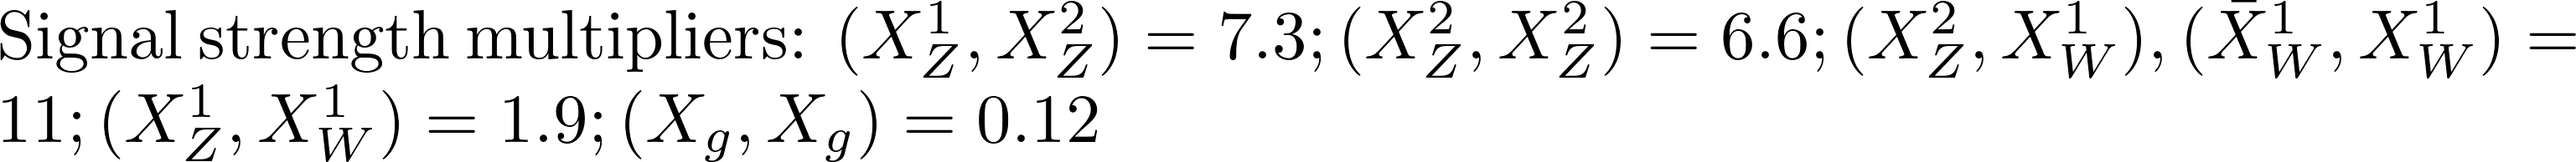
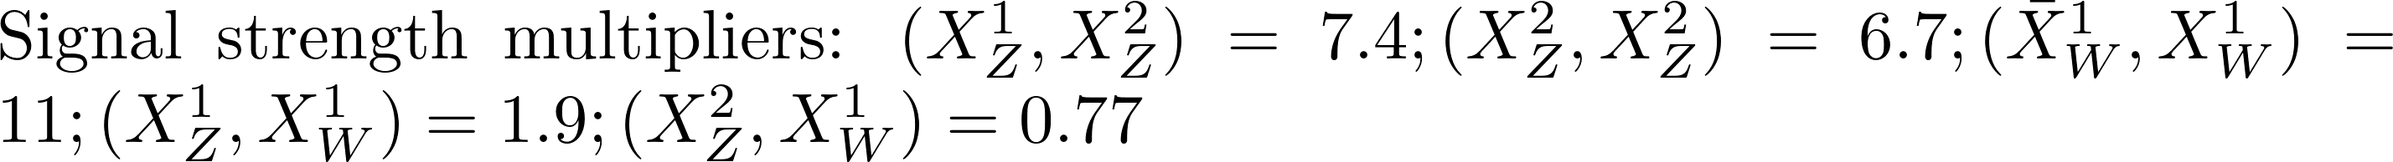
automated update by plotHiscore.py to ewk8_310:     K=9.733 TL=13.23 walkerid=0

diff --git a/protomodels/ewk8_310/rawnumbers.html b/protomodels/ewk8_310/rawnumbers.html
@@ -1,16 +1,15 @@
 <table>
 <tr><th>Analysis Name</th><th>Type</th><th>Dataset</th><th>Topos</th><th>Observed</th><th>Expected</th><th>Approx &sigma;</th><th>Particles</th>
 </tr>
-<tr><td><a href=https://atlas.web.cern.ch/Atlas/GROUPS/PHYSICS/PAPERS/SUSY-2018-42/>ATLAS-SUSY-2018-42</a></td><td>em</td> <td>SR1400_High_long</td><td>TRHadGM1</td><td>7</td><td>0.70 +/- 0.40</td><td style="text-align:right">4.0 &sigma;</td><td style="text-align:right">X<sub>g</sub></td></tr>
-<tr><td><a href=https://atlas.web.cern.ch/Atlas/GROUPS/PHYSICS/PAPERS/EXOT-2018-06/>ATLAS-EXOT-2018-06</a></td><td>em</td> <td>EM10</td><td>TChiISR</td><td>413</td><td>359.00 +/- 10.00</td><td style="text-align:right">2.5 &sigma;</td><td style="text-align:right">X<sup>1</sup><sub>Z</sub>, X<sup>2</sup><sub>Z</sub></td></tr>
+<tr><td><a href=https://atlas.web.cern.ch/Atlas/GROUPS/PHYSICS/PAPERS/EXOT-2018-06/>ATLAS-EXOT-2018-06</a></td><td>em</td> <td>EM10</td><td>TChiISR</td><td>413</td><td>359.00 +/- 10.00</td><td style="text-align:right">2.4 &sigma;</td><td style="text-align:right">X<sup>1</sup><sub>Z</sub>, X<sup>2</sup><sub>Z</sub></td></tr>
 <tr><td><a href=http://cms-results.web.cern.ch/cms-results/public-results/publications/EXO-20-004/>CMS-EXO-20-004</a></td><td>comb</td> <td>-</td><td>TChiISR</td><td> 7e+01 fb </td><td> 5e+01 fb</td><td style="text-align:right">2.2 &sigma;</td><td style="text-align:right">X<sup>1</sup><sub>Z</sub>, X<sup>2</sup><sub>Z</sub></td></tr>
 <tr><td><a href=https://atlas.web.cern.ch/Atlas/GROUPS/PHYSICS/PAPERS/SUSY-2013-04/>ATLAS-SUSY-2013-04</a></td><td>em</td> <td>GtGrid_SR_10ij5 ...</td><td>T1bbbb</td><td>3</td><td>1.37 +/- 0.35</td><td style="text-align:right">1.2 &sigma;</td><td style="text-align:right">X<sup>1</sup><sub>Z</sub>, X<sup>2</sup><sub>Z</sub></td></tr>
 <tr><td><a href=https://atlas.web.cern.ch/Atlas/GROUPS/PHYSICS/PAPERS/SUSY-2016-07/>ATLAS-SUSY-2016-07</a></td><td>em</td> <td>4j_Meff_1000</td><td>T1</td><td>142</td><td>124.00 +/- 12.00</td><td style="text-align:right">1.1 &sigma;</td><td style="text-align:right">X<sup>1</sup><sub>W</sub>, X<sup>1</sup><sub>Z</sub>, X<sup>2</sup><sub>Z</sub></td></tr>
-<tr><td><a href=https://twiki.cern.ch/twiki/bin/view/CMSPublic/PhysicsResultsSUS13012>CMS-SUS-13-012</a></td><td>em</td> <td>6NJet8_800HT100 ...</td><td>T1bbbb</td><td>35</td><td>28.60 +/- 6.90</td><td style="text-align:right">0.8 &sigma;</td><td style="text-align:right">X<sup>1</sup><sub>Z</sub>, X<sup>2</sup><sub>Z</sub></td></tr>
-<tr><td><a href=https://atlas.web.cern.ch/Atlas/GROUPS/PHYSICS/PAPERS/SUSY-2013-02/>ATLAS-SUSY-2013-02</a></td><td>em</td> <td>SR6jm</td><td>T1</td><td>39</td><td>33.00 +/- 6.00</td><td style="text-align:right">0.7 &sigma;</td><td style="text-align:right">X<sup>1</sup><sub>W</sub>, X<sup>1</sup><sub>Z</sub>, X<sup>2</sup><sub>Z</sub></td></tr>
+<tr><td><a href=https://twiki.cern.ch/twiki/bin/view/CMSPublic/PhysicsResultsSUS13012>CMS-SUS-13-012</a></td><td>em</td> <td>6NJet8_800HT100 ...</td><td>T1bbbb</td><td>35</td><td>28.60 +/- 6.90</td><td style="text-align:right">0.7 &sigma;</td><td style="text-align:right">X<sup>1</sup><sub>Z</sub>, X<sup>2</sup><sub>Z</sub></td></tr>
+<tr><td><a href=https://atlas.web.cern.ch/Atlas/GROUPS/PHYSICS/PAPERS/SUSY-2013-02/>ATLAS-SUSY-2013-02</a></td><td>em</td> <td>SR6jl</td><td>T1</td><td>121</td><td>111.00 +/- 11.00</td><td style="text-align:right">0.7 &sigma;</td><td style="text-align:right">X<sup>1</sup><sub>W</sub>, X<sup>1</sup><sub>Z</sub>, X<sup>2</sup><sub>Z</sub></td></tr>
 </table>
 <table style='color:grey'>
-<tr><th>Not in Best Combo</th><th>Type</th><th>Dataset</th><th>Topos</th><th>Observed</th><th>Expected</th><th>Approx &sigma;</th><th>Particles</th><tr><td><a href=http://cms-results.web.cern.ch/cms-results/public-results/publications/SUS-16-033/index.html>CMS-SUS-16-033</a></td><td>em</td> <td>SR6_Njet2_Nb2_H ...</td><td>T1bbbb</td><td>216</td><td>196.00 +/- 28.00</td><td style="text-align:right">0.6 &sigma;</td><td style="text-align:right">X<sup>1</sup><sub>Z</sub>, X<sup>2</sup><sub>Z</sub></td></tr>
+<tr><th>Not in Best Combo</th><th>Type</th><th>Dataset</th><th>Topos</th><th>Observed</th><th>Expected</th><th>Approx &sigma;</th><th>Particles</th><tr><td><a href=http://cms-results.web.cern.ch/cms-results/public-results/publications/SUS-16-033/index.html>CMS-SUS-16-033</a></td><td>em</td> <td>SR6_Njet2_Nb2_H ...</td><td>T1bbbb</td><td>216</td><td>196.00 +/- 28.00</td><td style="text-align:right">0.7 &sigma;</td><td style="text-align:right">X<sup>1</sup><sub>Z</sub>, X<sup>2</sup><sub>Z</sub></td></tr>
 <tr><td><a href=http://cms-results.web.cern.ch/cms-results/public-results/publications/SUS-16-033/index.html>CMS-SUS-16-033</a></td><td>em</td> <td>SR1_Njet2_Nb0_H ...</td><td>T1</td><td>7838</td><td>7584.00 +/- 433.00</td><td style="text-align:right">0.6 &sigma;</td><td style="text-align:right">X<sup>1</sup><sub>W</sub>, X<sup>1</sup><sub>Z</sub>, X<sup>2</sup><sub>Z</sub></td></tr>
 <tr><td><a href=http://cms-results.web.cern.ch/cms-results/public-results/publications/SUS-16-033/index.html>CMS-SUS-16-033</a></td><td>em</td> <td>SR12_Njet5_Nb1_ ...</td><td>T1bbbb</td><td>48</td><td>42.20 +/- 9.70</td><td style="text-align:right">0.5 &sigma;</td><td style="text-align:right">X<sup>1</sup><sub>Z</sub>, X<sup>2</sup><sub>Z</sub></td></tr>
 <tr><td><a href=http://cms-results.web.cern.ch/cms-results/public-results/publications/SUS-16-033/index.html>CMS-SUS-16-033</a></td><td>em</td> <td>SR7_Njet3_Nb1_H ...</td><td>T1bbbb</td><td>123</td><td>113.00 +/- 18.00</td><td style="text-align:right">0.5 &sigma;</td><td style="text-align:right">X<sup>1</sup><sub>Z</sub>, X<sup>2</sup><sub>Z</sub></td></tr>

diff --git a/protomodels/ewk8_310/index.html b/protomodels/ewk8_310/index.html
@@ -1,24 +1,23 @@
 <html>
 <body>
 <center>
-<table><td><h1>Current best protomodel: <i>K</i>=23.80, <i>TL</i>=27.83</h1><td><img height=60px src=https://smodels.github.io//protomodels/logos/protomodel_lego.png></table>
+<table><td><h1>Current best protomodel: <i>K</i>=9.73, <i>TL</i>=13.23</h1><td><img height=60px src=https://smodels.github.io//protomodels/logos/protomodel_lego.png></table>
 </center>
-<b><a href=./hiscore.slha>ProtoModel</a> <a href=./pmodel.dict>(dict)</a> produced with <a href=https://smodels.github.io//docs/Validation310>database v3.1.0</a>, combination strategy <a href=./matrix.png>aggressive</a> in walker 0 step 40.</b> <br>
+<b><a href=./hiscore.slha>ProtoModel</a> <a href=./pmodel.dict>(dict)</a> produced with <a href=https://smodels.github.io//docs/Validation310>database v3.1.0</a>, combination strategy <a href=./matrix.png>aggressive</a> in walker 0 step 0.</b> <br>
 <table width=80%>
 <tr><td>
-<br><b>Critics:</b> passed both critics<br>
-<br><b>LLHD Critic:</b> ATLAS-SUSY-2018-42:SR1400_High_long, CMS-EXO-20-004:combined, ATLAS-EXOT-2018-06:EM9, ATLAS-SUSY-2013-02:SR6jl, ATLAS-SUSY-2016-07:4j_Meff_1000:: <span style='color: darkgreen;'>robs=0.94</span><br>
-<br><b>10 predictions available. Highest r values are:</b><br><ul>
-<li><a href=https://atlas.web.cern.ch/Atlas/GROUPS/PHYSICS/PAPERS/EXOT-2018-06/>ATLAS-EXOT-2018-06</a>:EM9:TChiISR r=1.37, r<sub>exp</sub>=1.22<br>
-<li><a href=http://atlas.web.cern.ch/Atlas/GROUPS/PHYSICS/PAPERS/SUSY-2016-32/>ATLAS-SUSY-2016-32</a>:ul:TRHadGM1 r=1.33, r<sub>exp</sub>=4.48<br>
-<li><a href=https://atlas.web.cern.ch/Atlas/GROUPS/PHYSICS/PAPERS/SUSY-2018-42/>ATLAS-SUSY-2018-42</a>:SR1400_High_long:TRHadGM1 r=0.63, r<sub>exp</sub>=2.35<br>
-<li><a href=http://cms-results.web.cern.ch/cms-results/public-results/publications/SUS-16-033/index.html>CMS-SUS-16-033</a>:SR11_Njet7_Nb1_HT300_MHT300:T1,T1bbbb r=0.33, r<sub>exp</sub>=0.21<br>
+<br><b>Critics:</b> failed UL-based critic<br>
+<br><b>No LLHD Critic results!!</b><br><br><b>7 predictions available. Highest r values are:</b><br><ul>
+<li><a href=https://atlas.web.cern.ch/Atlas/GROUPS/PHYSICS/PAPERS/EXOT-2018-06/>ATLAS-EXOT-2018-06</a>:EM9:TChiISR r=1.45, r<sub>exp</sub>=1.28<br>
+<li><a href=https://atlas.web.cern.ch/Atlas/GROUPS/PHYSICS/PAPERS/SUSY-2016-07/>ATLAS-SUSY-2016-07</a>:6j_Meff_1200:T1 r=0.28, r<sub>exp</sub>=0.29<br>
+<li><a href=http://cms-results.web.cern.ch/cms-results/public-results/publications/EXO-20-004/>CMS-EXO-20-004</a>:SR_2018_13:TChiISR r=0.28, r<sub>exp</sub>=0.38<br>
+<li><a href=http://cms-results.web.cern.ch/cms-results/public-results/publications/SUS-16-033/index.html>CMS-SUS-16-033</a>:SR11_Njet7_Nb1_HT300_MHT300:T1,T1bbbb r=0.19, r<sub>exp</sub>=0.12<br>
 </ul>
-<td><img width=600px src=./texdoc.png?1755762637>
-<br><span style='font-size: smaller; color: darkred;'>Last updated: Thu Aug 21 09:50:37 2025</span>
+<td><img width=600px src=./texdoc.png?1755766985>
+<br><span style='font-size: smaller; color: darkred;'>Last updated: Thu Aug 21 11:03:05 2025</span>
 </table><table style="width:80%">
-<td width=45%><img height=580px src=./ruler.png?1755762637><td width=55%><img height=220px src=./decays.png?1755762637>
-<font size=-3><iframe type="text/html" height="350px" width="100%" frameborder="0" src="./rawnumbers.html?1755762637"></iframe></font>
+<td width=45%><img height=580px src=./ruler.png?1755766985><td width=55%><img height=220px src=./decays.png?1755766985>
+<font size=-3><iframe type="text/html" height="350px" width="100%" frameborder="0" src="./rawnumbers.html?1755766985"></iframe></font>
 </table>
 </body>
 </html>
